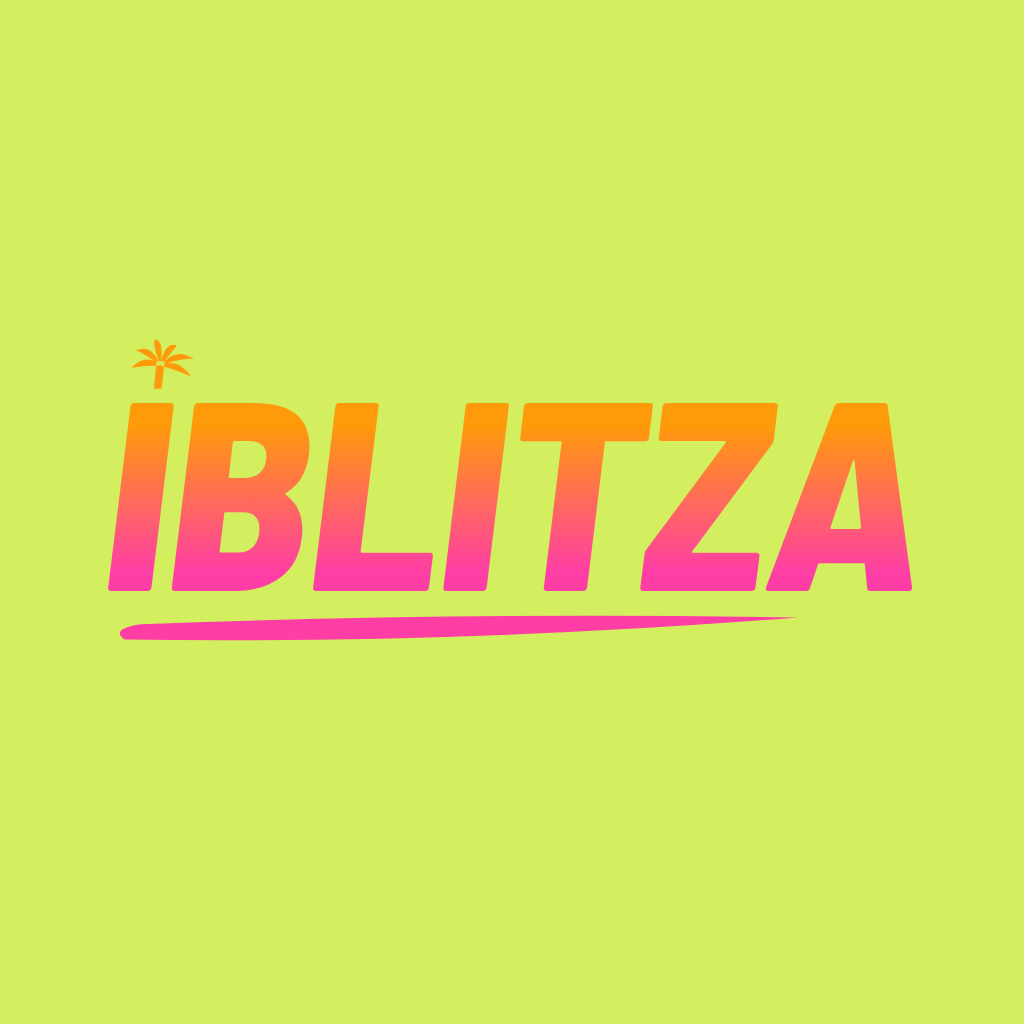
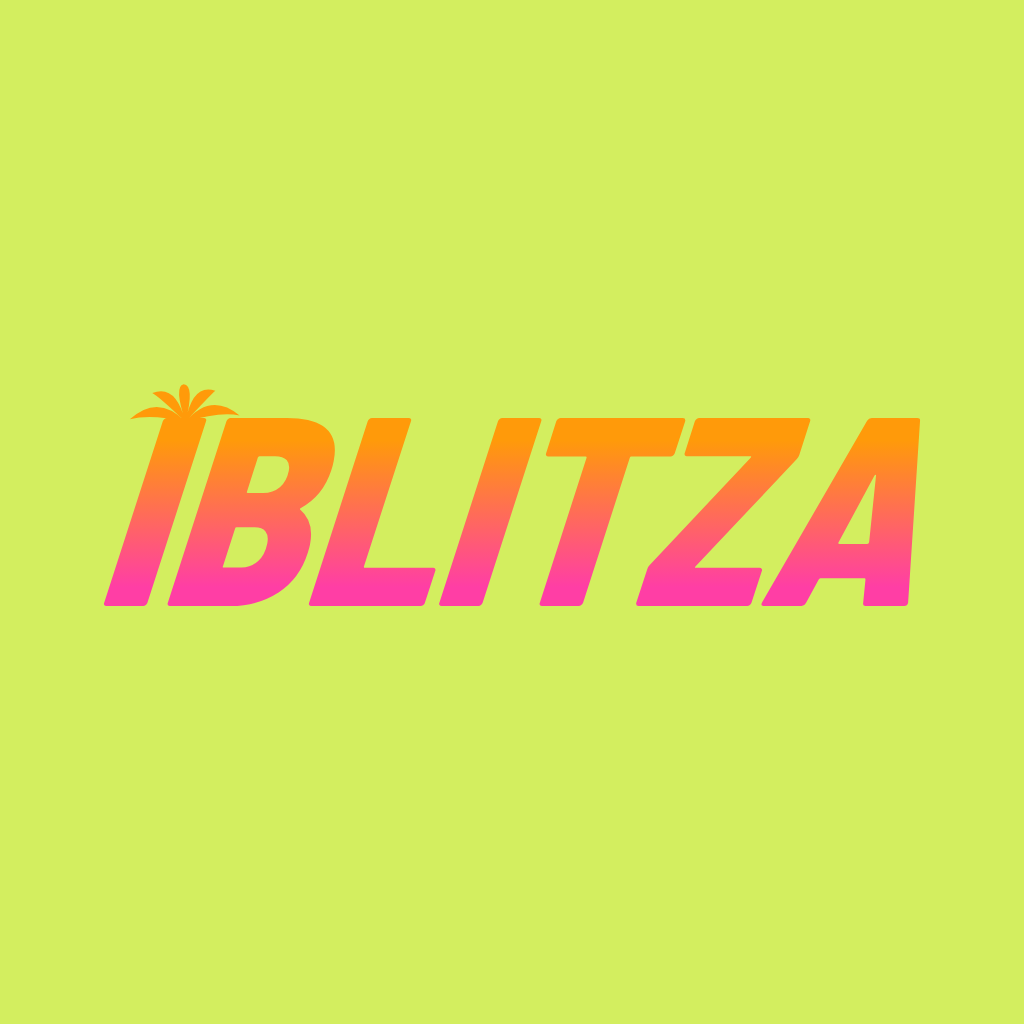
Rework the IBLITZA wordmark: palm crown on the I, steeper slant, no underline
The I is now the palm's trunk with only the fronds on top, the lettering
leans further, and the brush underline is gone.

Claude-Session: https://claude.ai/code/session_01J2mtdas9J5grVDqkEo4DN3

Changed region(s): [[0.0938, 0.3438, 0.9062, 0.625]]

diff --git a/brand/make_logo.py b/brand/make_logo.py
@@ -11,6 +11,8 @@ from fontTools.pens.boundsPen import BoundsPen
 HERE = os.path.dirname(os.path.abspath(__file__))
 FONT = TTFont(os.path.join(HERE, 'barlow-semi-condensed-latin-800-italic.woff2'))
 LIME, ORANGE, PINK, INK = '#d3ee5f', '#ff9a0a', '#ff3ea5', '#1b1030'
+SHEAR = 0.20  # extra slant on top of the font's own italic
+SLANT = math.tan(math.radians(-FONT['post'].italicAngle)) + SHEAR
 
 
 def wordmark(width, cx, baseline, text='IBLITZA', tracking=-0.005):
@@ -24,7 +26,7 @@ def wordmark(width, cx, baseline, text='IBLITZA', tracking=-0.005):
     pen, allb, first = SVGPathPen(gs, ntos=lambda v: f'{v:.2f}'), BoundsPen(gs), BoundsPen(gs)
     x = 0.0
     for i, (n, a) in enumerate(zip(names, adv)):
-        t = (s, 0, 0, -s, x0 + x * s, baseline)
+        t = (s, 0, SHEAR * s, -s, x0 + x * s, baseline)
         for p in (pen, allb) + ((first,) if i == 0 else ()):
             gs[n].draw(TransformPen(p, t))
         x += a + tracking * upm
@@ -32,41 +34,29 @@ def wordmark(width, cx, baseline, text='IBLITZA', tracking=-0.005):
 
 
 def palm(x, y, size, fill):
-    """Palm crown: six fronds fanning from (x, y), drooping at the tips, on a short trunk."""
+    """Palm crown only: fronds fanning out of the top of the I, which is the trunk."""
     out = []
-    for deg, ln in [(-98, 1.0), (-62, 0.92), (-28, 1.0), (4, 0.82), (-134, 0.95), (-168, 0.8)]:
+    for deg, ln in [(-92, 0.95), (-58, 1.0), (-24, 1.05), (-126, 1.0), (-160, 1.05)]:
         a = math.radians(deg)
         L = size * ln
         ex, ey = x + L * math.cos(a), y + L * math.sin(a) + L * 0.30  # tip droops
-        mx, my = x + L * 0.55 * math.cos(a), y + L * 0.55 * math.sin(a) - L * 0.10
-        nx, ny = -math.sin(a) * size * 0.17, math.cos(a) * size * 0.17  # frond half-width
+        mx, my = x + L * 0.55 * math.cos(a), y + L * 0.55 * math.sin(a) - L * 0.12
+        nx, ny = -math.sin(a) * size * 0.19, math.cos(a) * size * 0.19  # frond half-width
         out.append(f'M{x:.1f},{y:.1f} Q{mx + nx:.1f},{my + ny:.1f} {ex:.1f},{ey:.1f} '
                    f'Q{mx - nx:.1f},{my - ny:.1f} {x:.1f},{y:.1f}Z')
-    t = size * 0.11
-    out.append(f'M{x - t:.1f},{y - t:.1f} L{x + t:.1f},{y - t:.1f} L{x + t * 0.2:.1f},{y + size * 0.62:.1f} '
-               f'L{x - t * 1.6:.1f},{y + size * 0.62:.1f}Z')
     return f'<path d="{" ".join(out)}" fill="{fill}"/>'
 
 
-def swoosh(x1, x2, y, thick, fill):
-    """Brush underline: thick on the left, tapering to a point, rising slightly to the right."""
-    rise = (x2 - x1) * 0.022
-    return (f'<path d="M{x1:.1f},{y + thick * 0.45:.1f} '
-            f'Q{x1 - thick * 0.9:.1f},{y - thick * 0.2:.1f} {x1 + thick:.1f},{y - thick * 0.5:.1f} '
-            f'Q{(x1 + x2) / 2:.1f},{y - thick * 0.9 - rise * 0.4:.1f} {x2:.1f},{y - rise:.1f} '
-            f'Q{(x1 + x2) / 2:.1f},{y + thick * 0.75:.1f} {x1:.1f},{y + thick * 0.45:.1f}Z" fill="{fill}"/>')
-
-
 def mark(width, cx, cy, grad='url(#sunset)', accent_top=ORANGE, accent_bottom=PINK):
-    """Wordmark + palm on the I + underline, vertically centred on cy."""
-    path, (bx0, by0, bx1, by1), (ix0, iy0, ix1, iy1) = wordmark(width, cx, 0)
+    """Wordmark with the palm crown on the I, centred on (cx, cy)."""
+    _, (bx0, by0, bx1, by1), _ = wordmark(width, cx, 0)
     cap = by1 - by0
-    base = cy + cap * 0.42
-    path, (bx0, by0, bx1, by1), (ix0, iy0, ix1, iy1) = wordmark(width, cx, base)
-    lean = (ix1 - ix0) * 0.30  # the italic I leans right: sit the palm over its top end
-    body = (palm(ix0 + (ix1 - ix0) * 0.5 + lean, by0 - cap * 0.20, cap * 0.20, accent_top)
-            + f'<path d="{path}" fill="{grad}"/>'
-            + swoosh(bx0 + width * 0.02, bx1 - width * 0.14, by1 + cap * 0.22, cap * 0.085, accent_bottom))
+    # Re-centre: the shear pushes the tops right, and the letters sit on cy by their cap height.
+    path, (bx0, by0, bx1, by1), (ix0, iy0, ix1, iy1) = wordmark(width, 2 * cx - (bx0 + bx1) / 2, cy + cap / 2)
+    # The italic I is a parallelogram: its top edge is the right-hand end of its bounding box.
+    stem = (ix1 - ix0) - cap * SLANT
+    body = (palm(ix1 - stem / 2, by0 + cap * 0.02, cap * 0.30, accent_top)
+            + f'<path d="{path}" fill="{grad}"/>')
     defs = (f'<linearGradient id="sunset" gradientUnits="userSpaceOnUse" x1="0" y1="{by0:.1f}" x2="0" y2="{by1:.1f}">'
             f'<stop offset="0.12" stop-color="{ORANGE}"/><stop offset="0.9" stop-color="{PINK}"/></linearGradient>')
     return defs, body
@@ -79,7 +69,7 @@ def svg(w, h, defs, body):
 
 files = {}
 # Badge, as on Instagram: lime disc with the wordmark breaking out of it. Transparent corners.
-d, b = mark(1060, 560, 500)
+d, b = mark(1020, 560, 500)
 files['iblitza-badge.svg'] = svg(1120, 1000, d, f'<circle cx="560" cy="500" r="440" fill="{LIME}"/>{b}')
 # Avatar: full-bleed lime square with everything inside the safe area (GitHub/Slack crop the corners).
 d, b = mark(820, 512, 512)

diff --git a/brand/README.md b/brand/README.md
@@ -14,6 +14,6 @@ All SVGs are self-contained (lettering is outlined, no fonts needed), so they ex
 | `iblitza-wordmark-ink.svg`, `iblitza-wordmark-white.svg` | One-colour wordmarks |
 
 Colours: lime `#d3ee5f`, orange `#ff9a0a`, pink `#ff3ea5`, ink `#1b1030`.
-Lettering: Barlow Semi Condensed ExtraBold Italic (SIL Open Font License, see `OFL-Barlow.txt`).
+Lettering: Barlow Semi Condensed ExtraBold Italic, slanted further (SIL Open Font License, see `OFL-Barlow.txt`).
 
 Regenerate with `pip install fonttools brotli && python3 brand/make_logo.py`.
